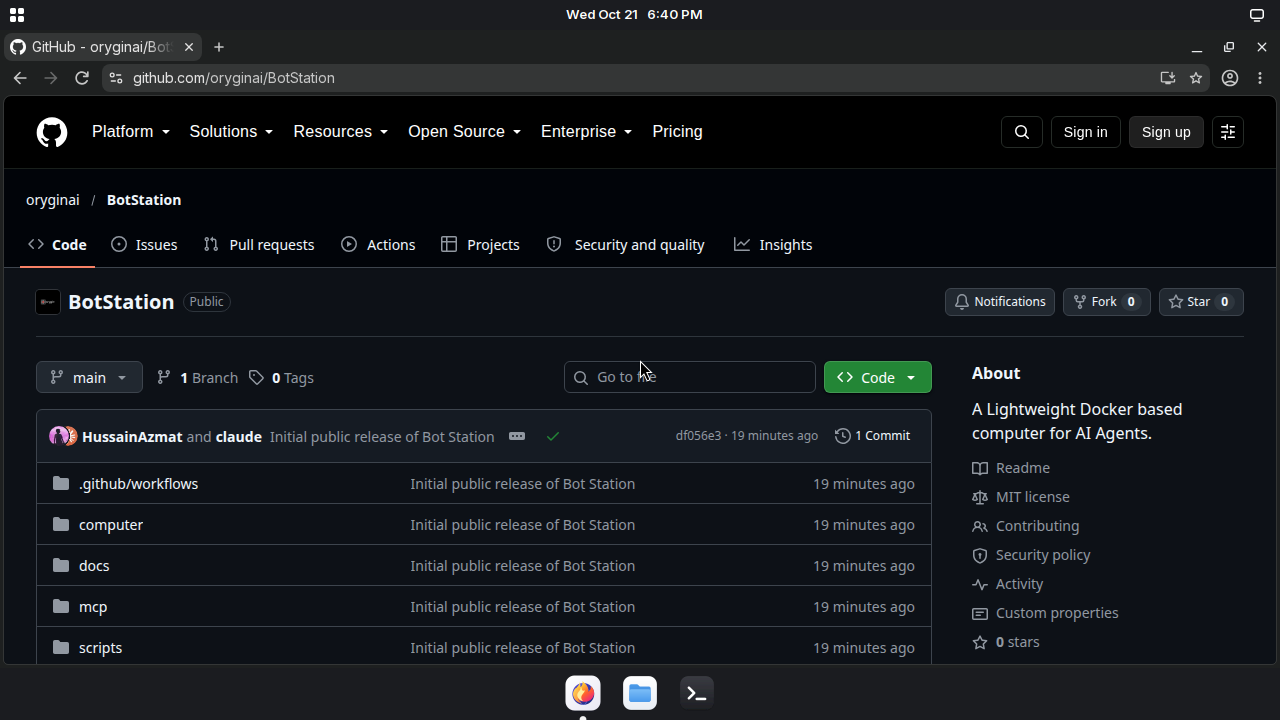
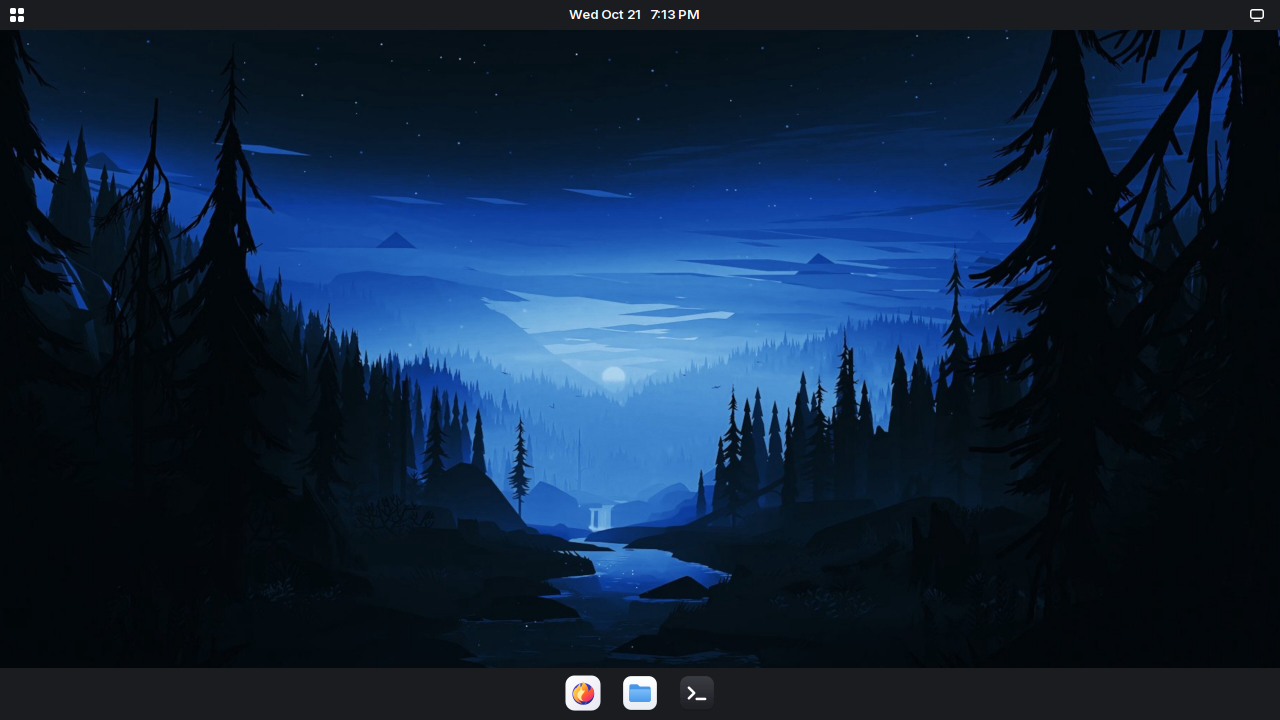
Use a clean desktop screenshot in the README

diff --git a/README.md b/README.md
@@ -21,8 +21,8 @@ in your own browser, and take over the mouse when it needs a hand.
 - **Locked down by default.** TLS 1.3, separate tokens for you and the agent, ports bound to localhost, a sandboxed browser, and a non-root, read-only MCP container.
 
 <p align="center">
-  <img src="docs/images/desktop.png" alt="The Bot Station desktop: the Helium browser, opened by an agent over MCP, showing this repository on GitHub, with a top bar and a dock for the browser, Files and Terminal." width="900">
-  <br><sub>The desktop as an agent sees it: <code>browser_navigate</code> then <code>screenshot</code>, through the MCP server.</sub>
+  <img src="docs/images/desktop.png" alt="The Bot Station desktop with no windows open: a top bar with the app menu and clock, a night-forest wallpaper, and a dock with the browser, Files and Terminal." width="900">
+  <br><sub>The Bot Station desktop, captured through the agent API: the Helium browser, Files and Terminal in the dock.</sub>
 </p>
 
 ### How it fits together
